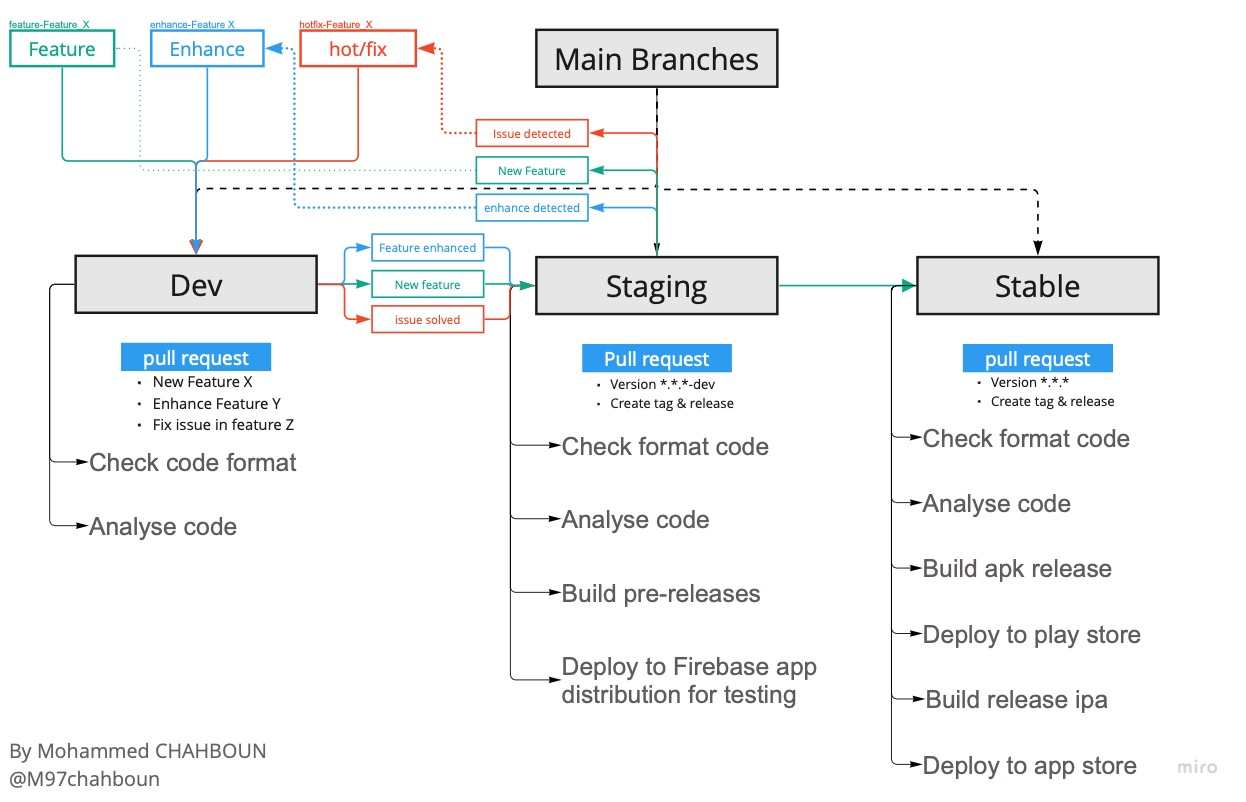
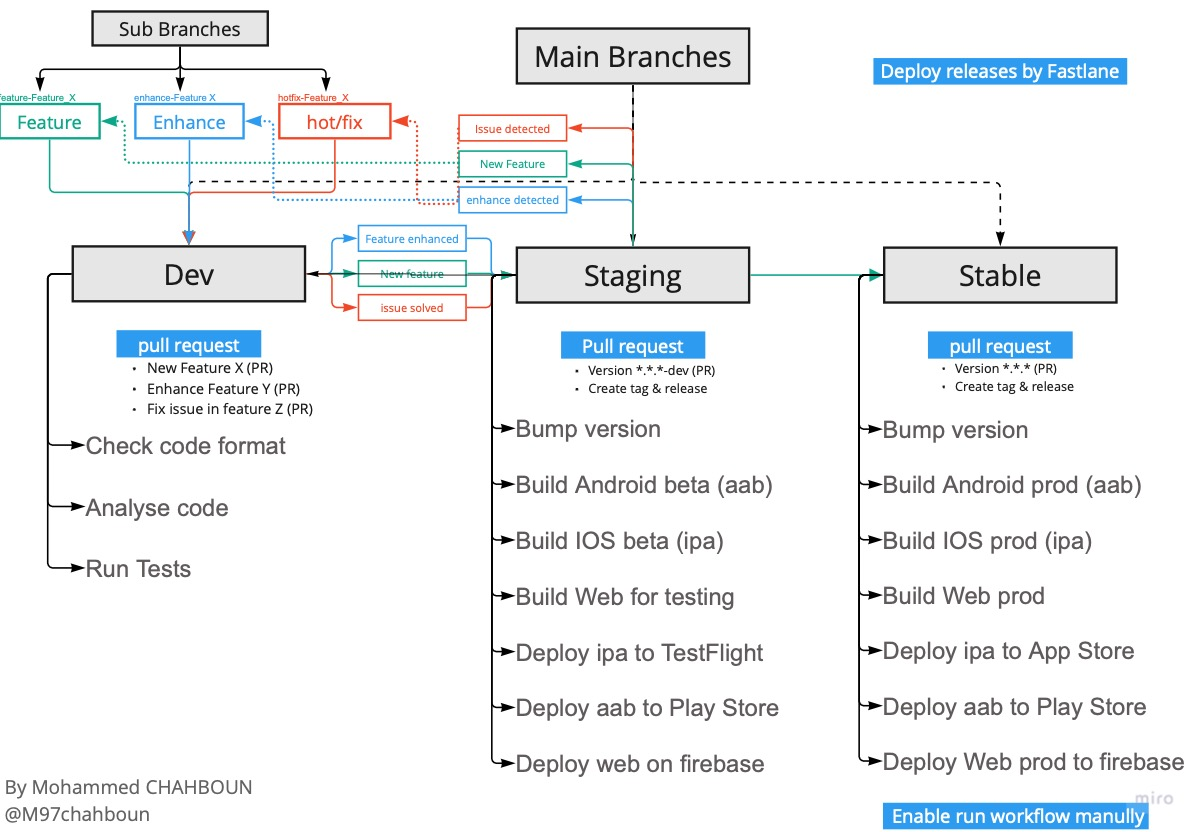
Use Fastlane for deploy android release (#5)
* Fix workflow words

* bump version to 2.1.1+2 from fastlane

* prepare app to deploy

* Add stable CD workflow

* Add Android Fastlane configurations

* Add metadata from playstore by fastlane

* Update workflow image

* check current dir by dev

diff --git a/android/fastlane/README.md b/android/fastlane/README.md
@@ -1,0 +1,59 @@
+fastlane documentation
+----
+
+# Installation
+
+Make sure you have the latest version of the Xcode command line tools installed:
+
+```sh
+xcode-select --install
+```
+
+For _fastlane_ installation instructions, see [Installing _fastlane_](https://docs.fastlane.tools/#installing-fastlane)
+
+# Available Actions
+
+### bump_version
+
+```sh
+[bundle exec] fastlane bump_version
+```
+
+
+
+----
+
+
+## Android
+
+### android beta
+
+```sh
+[bundle exec] fastlane android beta
+```
+
+Submit a new beta build to Google Play
+
+### android promote_to_production
+
+```sh
+[bundle exec] fastlane android promote_to_production
+```
+
+Promote beta track to prod
+
+### android production
+
+```sh
+[bundle exec] fastlane android production
+```
+
+Submit a new production build to Google Play
+
+----
+
+This README.md is auto-generated and will be re-generated every time [_fastlane_](https://fastlane.tools) is run.
+
+More information about _fastlane_ can be found on [fastlane.tools](https://fastlane.tools).
+
+The documentation of _fastlane_ can be found on [docs.fastlane.tools](https://docs.fastlane.tools).
